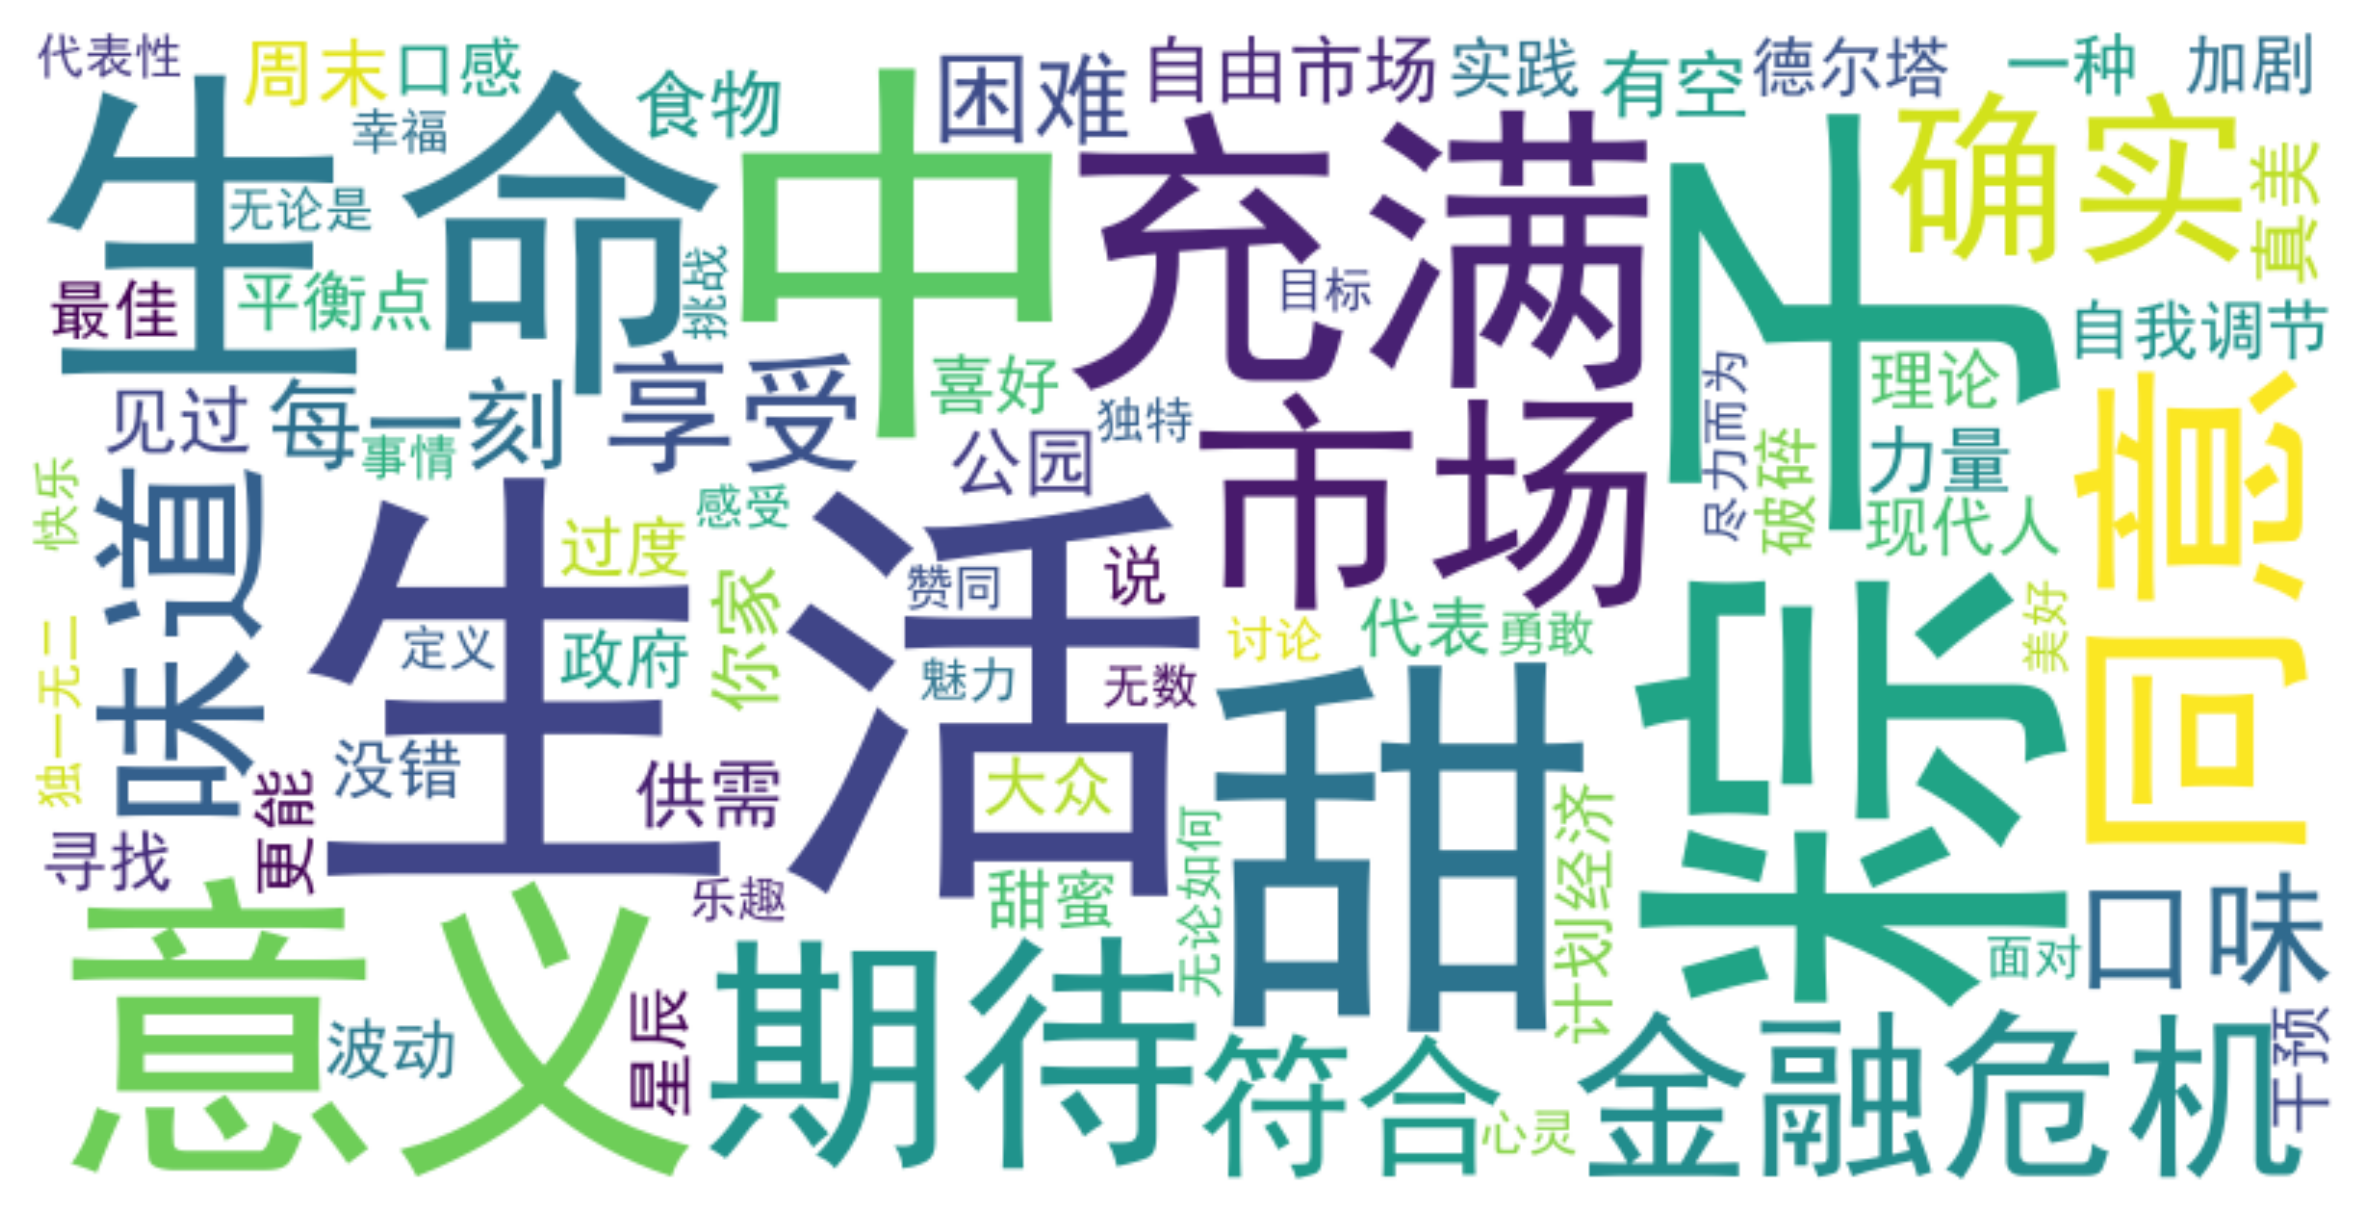
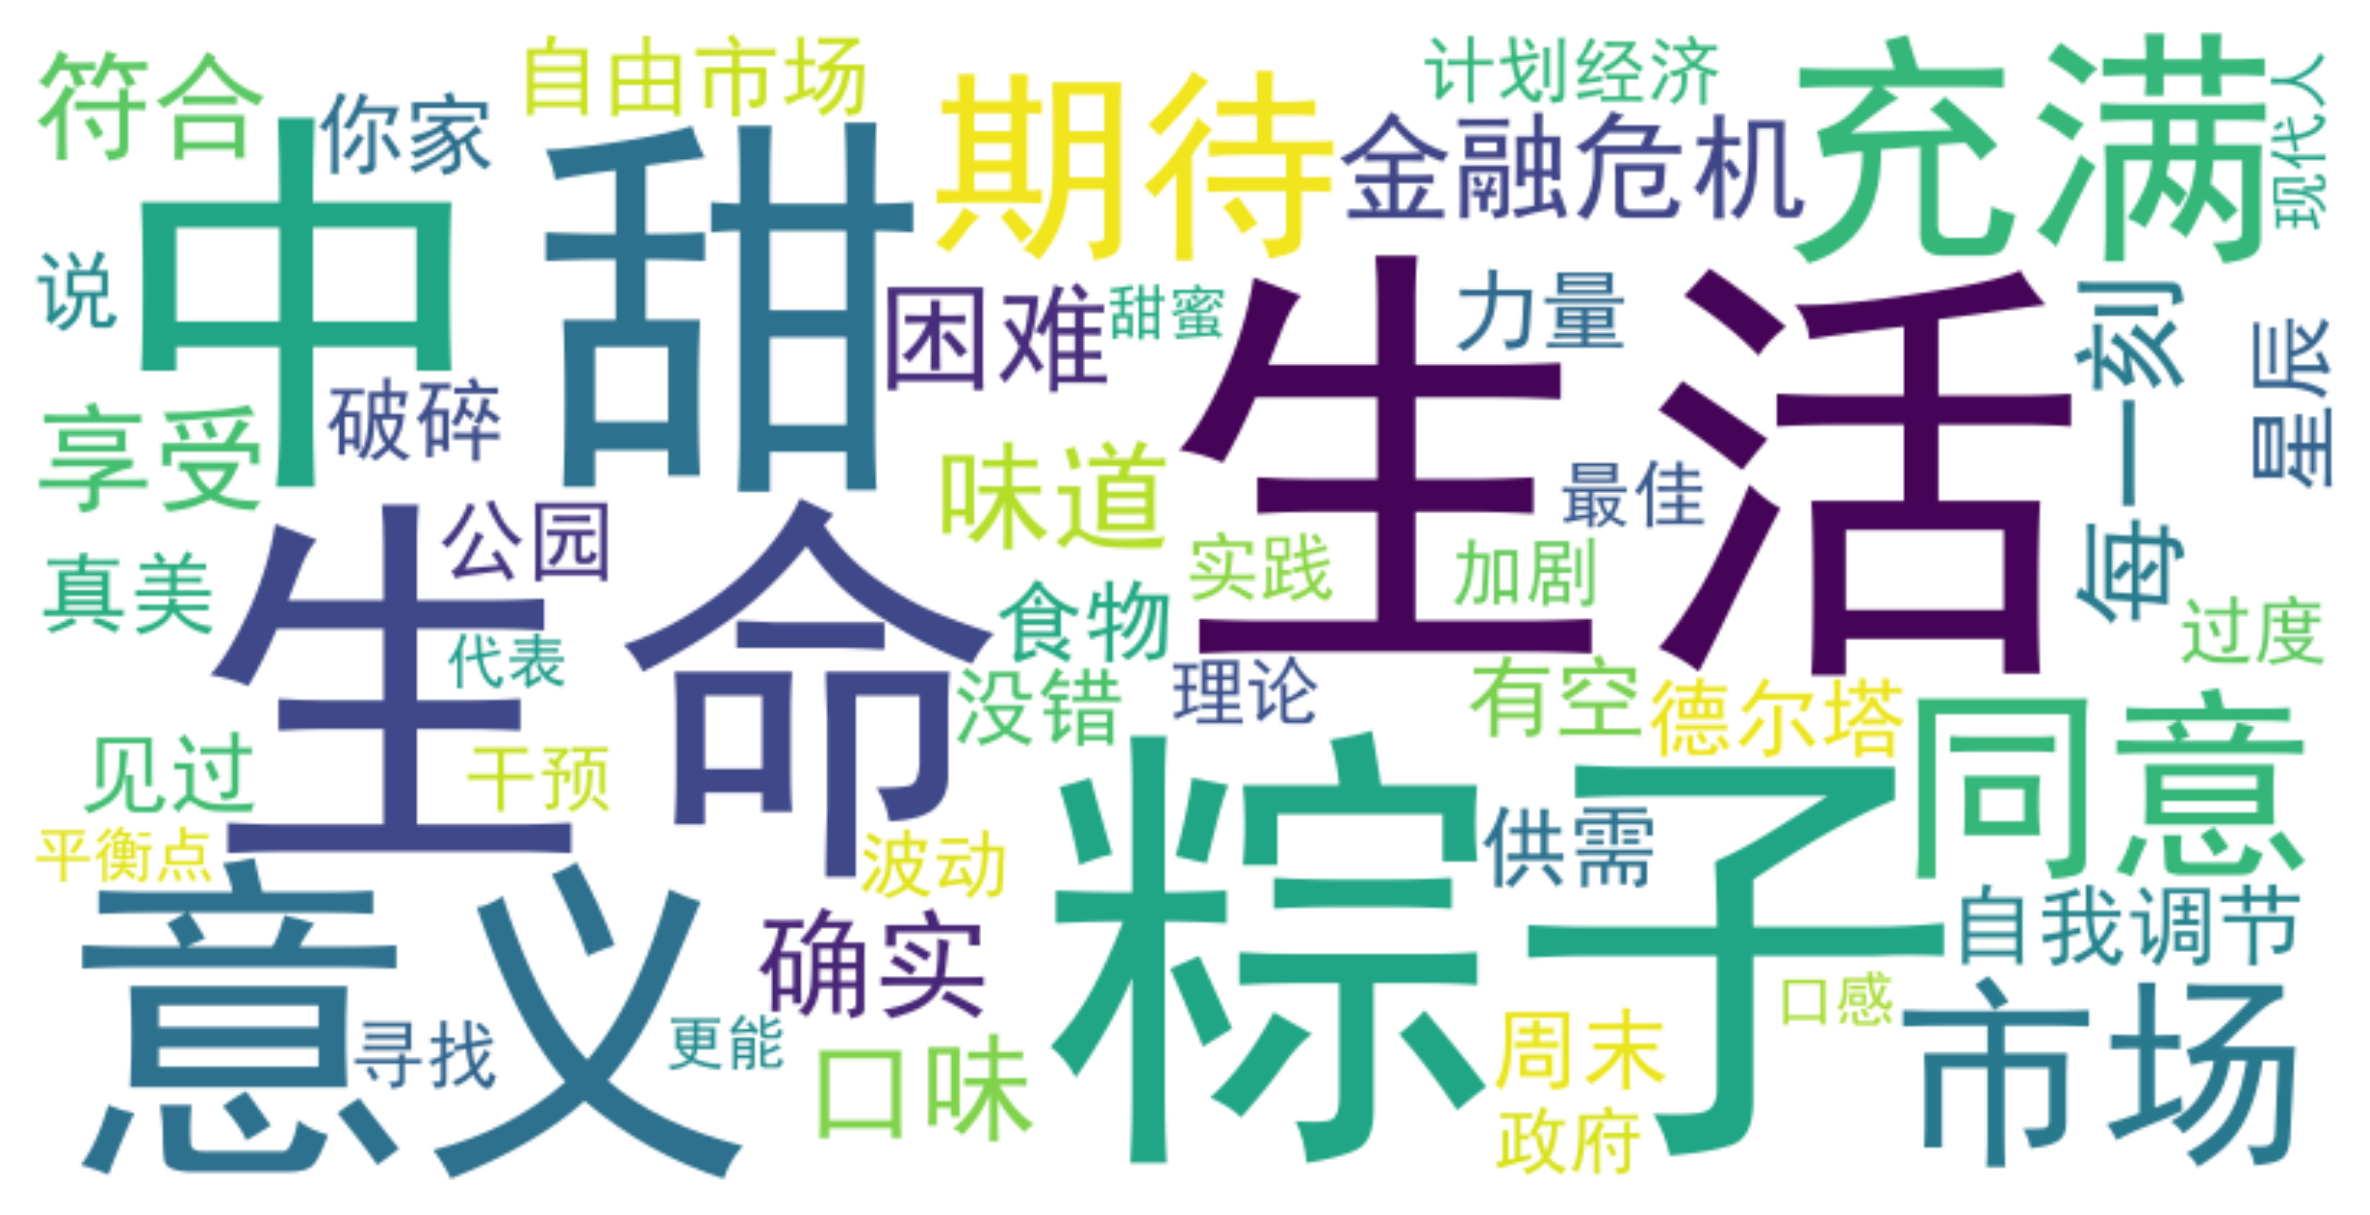
update

diff --git a/Scripts/forWordcloud.py b/Scripts/forWordcloud.py
@@ -20,7 +20,7 @@ def load_userdict(file_path):
 def generate_wordcloud(text, output_file, stopwords):
     # 生成词云图
     font_path = r'C:\Windows\Fonts\simhei.ttf'  # 字体文件的路径
-    wordcloud = WordCloud(font_path=font_path, background_color='white', width=800, height=400, stopwords=stopwords).generate(text)
+    wordcloud = WordCloud(font_path=font_path, background_color='white', width=800, height=400, stopwords=stopwords,max_words=50,collocations=False).generate(text)
     plt.figure(figsize=(10, 5),dpi=300)
     plt.imshow(wordcloud, interpolation='bilinear')
     plt.axis('off')
